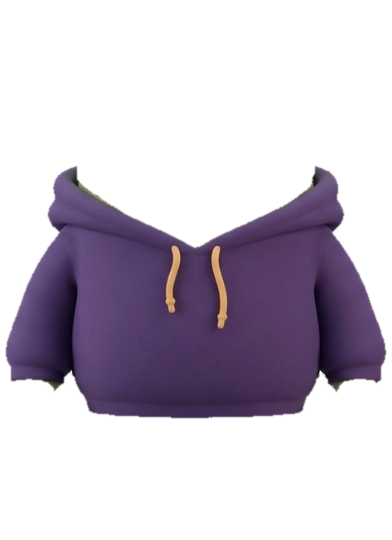
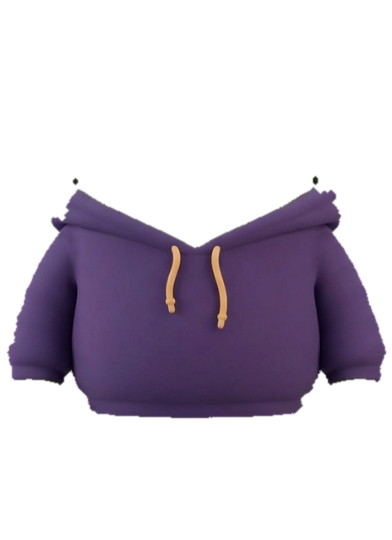
The white lines were the body, smuggled into the layers
Subtracting the bare render from a dressed one finds more than the
garment: it finds the shadow the garment casts on the body, and the body
reflected in a dark lens. Those pixels rode along inside the layer, so
every creature wore a patch of the green one it was rendered on -- which
is what the white outlines under the glasses actually were.

Three tests before the right one, each wrong in a way worth keeping:

Matching the body's hue and recolouring those pixels towards grey turned
a green smudge into a pale one. That is the white outline, created by
the attempt to remove it.

Matching the hue and dropping them shattered the frame, because black
over green reads near enough that hue to go with it.

Asking whether a pixel was just the bare one scaled down missed the
worst of them: a shadow does not dim every channel equally, and under
these glasses blue falls away about twice as fast as red, which pushed
the spread past any threshold that still caught anything.

What separates them is that leftover body is bright and keeps the body's
chromaticity while the garment is dark -- measured, not guessed: the
offending pixels sat at luminance 95 to 134 and the entire real garment
between 23 and 34. Chromaticity because it ignores how much light there
is, and a brightness floor because black has no reliable chromaticity to
compare. The shades now carry none of it at all.

diff --git a/tools/build-creature.py b/tools/build-creature.py
@@ -161,39 +161,38 @@ def hue_of(rgb: np.ndarray) -> np.ndarray:
     return (h / 6) % 1.0
 
 
-def neutralise_reflections(
-    rgb: np.ndarray, mask: np.ndarray, body_hue: float
+def drop_body_pixels(
+    worn: np.ndarray, bare: np.ndarray, mask: np.ndarray
 ) -> np.ndarray:
     """
-    Take the body's colour back out of a layer that reflected it.
+    Take the body back out of a layer that caught some of it.
 
-    A dark lens picks up whatever it was rendered against, so the glasses carry
-    reflections of the body -- which look wrong the moment they sit on a
-    creature of another colour. One shared layer cannot recolour its own
-    reflections per body, so they lose their colour instead: pushed towards
-    grey they read as highlights on any body, which is what a reflection is.
+    Subtracting one render from another finds more than the garment: it finds
+    the shadow the garment casts on the body and the body reflected in a lens.
+    Those pixels are the body, not the thing being worn, so keeping them
+    dresses every creature in a patch of the green one it was rendered on.
 
-    Keyed on the body's own hue rather than on a guess at what colour it is.
-    The first attempt tested for green and missed these, because the
-    reflections are yellow-green -- red and green near enough level that
-    "greener than it is red" is false.
+    Two earlier tests were wrong in instructive ways. Matching the body's hue
+    and recolouring those pixels turned a green smudge into a pale one, which
+    is the white outline it was meant to fix. Matching the hue and dropping
+    them shattered the frame, because black over green reads near that hue.
+    Asking whether a pixel was the bare one scaled down missed the worst of
+    them, because a shadow does not dim every channel equally -- under these
+    glasses blue falls away twice as fast as red.
+
+    What separates them here is plain: leftover body is bright and keeps the
+    body's chromaticity, while the garment itself is dark. Chromaticity because
+    it ignores how much light there is, and a brightness floor because black
+    has no reliable chromaticity to compare.
     """
-    out = rgb.astype(np.float32).copy()
-    hue = hue_of(out)
-    mx, mn = out.max(axis=2), out.min(axis=2)
-    sat = np.where(mx > 0, (mx - mn) / np.maximum(mx, 1e-6), 0)
+    total_w = worn.sum(axis=2, keepdims=True) + 1e-6
+    total_b = bare.sum(axis=2, keepdims=True) + 1e-6
+    chroma_shift = np.linalg.norm(
+        worn[..., :2] / total_w - bare[..., :2] / total_b, axis=2
+    )
 
-    # Circular distance, so a body hue near 0 still matches its own reflections.
-    delta = np.abs(hue - body_hue)
-    delta = np.minimum(delta, 1 - delta)
-
-    reflected = mask & (delta < 0.09) & (sat > 0.18)
-    if not reflected.any():
-        return out
-
-    grey = out[reflected].mean(axis=1, keepdims=True)
-    out[reflected] = out[reflected] * 0.2 + grey * 0.8
-    return out
+    lit = worn.mean(axis=2) > 48
+    return mask & ~(lit & (chroma_shift < 0.075))
 
 
 def hue_shift(rgb: np.ndarray, hue: float) -> np.ndarray:
@@ -254,10 +253,6 @@ def main() -> None:
 
     body = tame_rim(unfringe(base_rgb, base_alpha), base_alpha)
 
-    # What colour the creature was rendered in, so a layer can be told which of
-    # its own pixels are reflections of it.
-    skin = base_solid & ~eyes
-    body_hue = float(np.median(hue_of(base_rgb)[skin]))
 
     save(body, base_alpha, "creature-green.png")
     for name, hue in PALETTE.items():
@@ -279,8 +274,12 @@ def main() -> None:
         # original green fringing every recoloured creature.
         garment = ndimage.binary_erosion(garment, iterations=2)
 
+        garment = drop_body_pixels(rgb, base_rgb, garment)
+        garment = ndimage.binary_closing(garment, iterations=2)
+        garment = ndimage.binary_opening(garment, iterations=2)
+
         g_alpha = alpha_from(garment)
-        g_rgb = neutralise_reflections(unfringe(rgb, g_alpha), garment, body_hue)
+        g_rgb = unfringe(rgb, g_alpha)
         save(g_rgb, g_alpha, f"layer-{name}.png")
         print(f"  outfit {name}: {int(garment.sum())}px")
 
